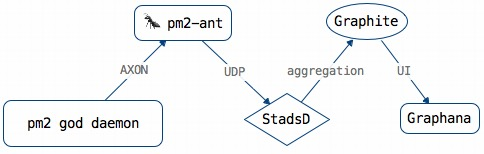
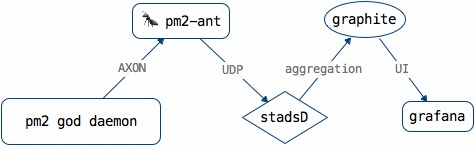
docs of grafana

diff --git a/README.md b/README.md
@@ -45,7 +45,7 @@ Debug mode:
 $ DEBUG=ant:* node pm2-ant.js
 ```
 
-Now you can view events with [Graphana](http://grafana.org).
+Now you can view events with [Grafana](http://grafana.org).
 
 ## License
 Licensed under the Apache License, Version 2.0 (the "License");
